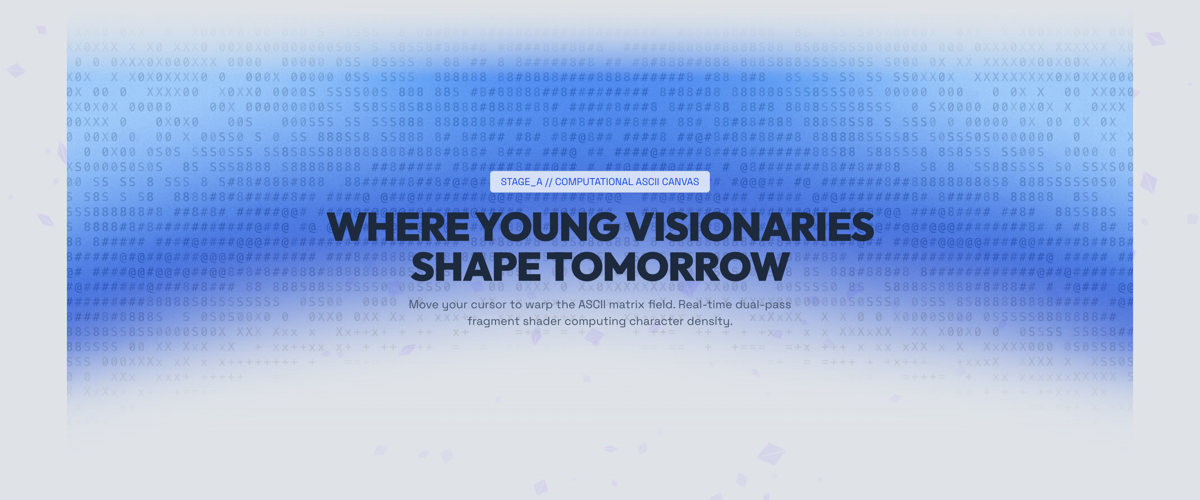
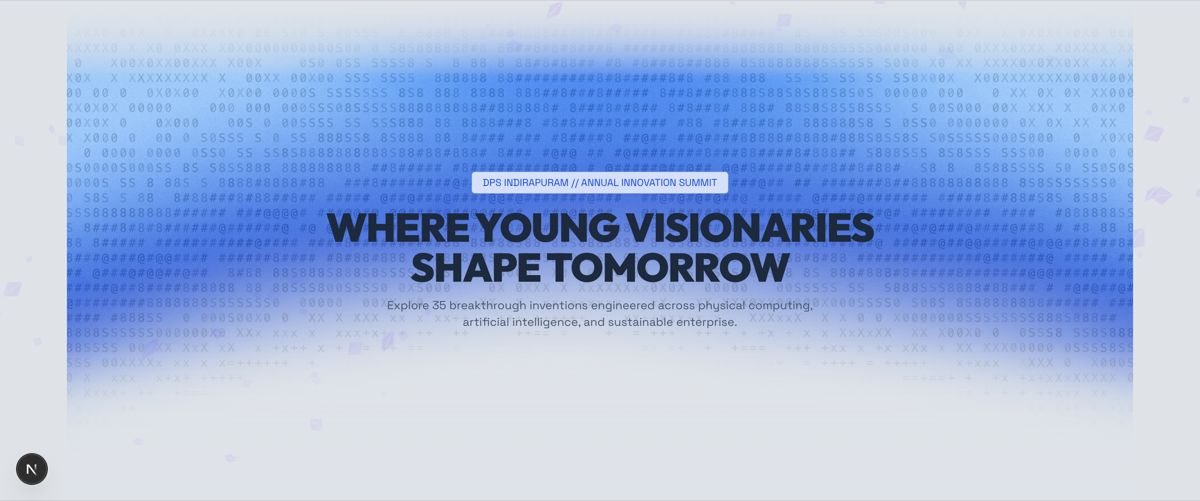
refactor(ui): deslop landing page copy, remove component-demo telemetry, and clean section headers

diff --git a/src/app/page.tsx b/src/app/page.tsx
@@ -246,14 +246,14 @@ export default function LandingPage() {
             isLight ? 'border-slate-200/80' : 'border-[#30363d]'
           }`}>
             <div className={`flex items-center justify-between font-mono text-[11px] sm:text-xs mb-3 ${
-              isLight ? 'text-slate-500' : 'text-[#8b949e]'
+              isLight ? 'text-slate-600' : 'text-[#8b949e]'
             }`}>
-              <span className="flex items-center gap-2 text-[#3fb950]">
-                <span>november 14–15_2026{"}"}</span>
-                <span className="inline-block w-2.5 h-2.5 bg-[#3fb950]" />
+              <span className="flex items-center gap-2 text-[#3fb950] font-bold">
+                <span>NOVEMBER 14–15, 2026</span>
+                <span className="inline-block w-2 h-2 bg-[#3fb950] rounded-xs" />
               </span>
-              <span className="hidden sm:inline">
-                in-person &amp; 3d-hall % |35-booths
+              <span className="hidden sm:inline font-medium">
+                IN-PERSON &amp; 3D VIRTUAL HALL • 35 RESEARCH BOOTHS
               </span>
             </div>
 
@@ -282,19 +282,16 @@ export default function LandingPage() {
               }`}
             />
 
-            {/* Technical Sub-Header with Telemetry */}
+            {/* Technical Sub-Header with Venue Metadata */}
             <div className={`relative z-10 px-4 py-2 border-b flex items-center justify-between text-[10px] sm:text-[11px] font-mono ${
               isLight ? 'border-slate-200/80 text-slate-600' : 'border-[#21262d] text-[#8b949e]'
             }`}>
               <div className="flex items-center gap-1.5 sm:gap-2">
-                <span className="w-1.5 h-1.5 rounded-full bg-blue-500 animate-pulse shrink-0" />
-                <span className="truncate">{'[ ELEMENT 02 ] :: INTERACTIVE PHYSICS WORDMARK'}</span>
+                <span className="w-1.5 h-1.5 rounded-full bg-emerald-500 animate-pulse shrink-0" />
+                <span className="truncate font-bold tracking-tight">DELHI PUBLIC SCHOOL INDIRAPURAM</span>
               </div>
-              <span className="hidden md:inline text-[10px] text-slate-400 font-mono tracking-widest">
-                COORDINATES: 28.6479° N, 77.3764° E // AUDITORIUM MAIN
-              </span>
-              <span className={`shrink-0 ${isLight ? 'text-blue-600 font-semibold' : 'text-[#58a6ff]'}`}>
-                SPRING DYNAMICS
+              <span className="text-[10px] text-slate-400 font-mono tracking-wider">
+                MAIN AUDITORIUM • 28.6479° N, 77.3764° E
               </span>
             </div>
 
@@ -319,14 +316,6 @@ export default function LandingPage() {
                 reach={isMobile ? 120 : 180}
                 bounce={0.4}
               />
-            </div>
-
-            {/* Blueprint Micro-instruction Footer */}
-            <div className={`relative z-10 px-4 py-1.5 border-t flex items-center justify-between text-[10px] font-mono ${
-              isLight ? 'border-slate-200/60 bg-slate-100/50 text-slate-500' : 'border-[#21262d] bg-[#0d1117]/50 text-[#8b949e]'
-            }`}>
-              <span>{'// INTERACTION GUIDE: DRAG CHARACTERS • HOVER TO DISASSEMBLE VECTORS'}</span>
-              <span className="hidden sm:inline">{'PHYSICS ENGINE: VERLET-SPRING'}</span>
             </div>
           </div>
 
@@ -441,16 +430,10 @@ export default function LandingPage() {
         </div>
       </section>
 
-      {/* ─── ELEMENT 5: <TextLoop /> ─── */}
-      <section className={`border-b transition-colors duration-300 ${
+      {/* ─── LIVE EXHIBITION MARQUEE RIBBON ─── */}
+      <section className={`border-b transition-colors duration-300 py-1 overflow-hidden ${
         isLight ? 'border-slate-200/80 bg-white/35 backdrop-blur-sm' : 'border-[#30363d] bg-[#040711]'
       }`}>
-        <div className={`px-4 py-2 border-b flex items-center justify-between text-[11px] font-mono max-w-7xl mx-auto ${
-          isLight ? 'border-slate-200 text-slate-600' : 'border-[#21262d] text-[#8b949e]'
-        }`}>
-          <span>{'[ ELEMENT 05 ] :: SVG CURVED LOOP RIBBON'}</span>
-          <span className="text-[#a855f7] font-semibold">LIVE STREAM MARQUEE</span>
-        </div>
         <div className="py-2 overflow-hidden">
           <TextLoop
             text="DPSI TECH & INNOVATION EXPO 2026 ✦ 35 STUDENT INVENTIONS ✦ PHYSICAL PROTOTYPES ✦ AI & COMPUTER VISION ✦ BUSINESS SUSTAINABILITY ✦ COMBAT ROBOTICS ✦ ANTI-CHEAT COMMUNITY BALLOT"
@@ -519,14 +502,14 @@ export default function LandingPage() {
                 : 'from-transparent via-[#000000]/60 to-[#000000]'
             }`} />
 
-            {/* GitHub Universe Terminal Overlay in Center */}
+            {/* Exhibition Horizon Headline Overlay */}
             <div className="absolute inset-0 z-20 flex flex-col items-center justify-center p-6 text-center pointer-events-none">
               <span className={`px-3 py-1 rounded font-mono text-xs mb-4 backdrop-blur-sm ${
                 isLight
                   ? 'bg-white/80 border border-slate-300/80 text-blue-700 shadow-xs'
                   : 'bg-black/80 border border-slate-700 text-[#38bdf8]'
               }`}>
-                {'STAGE_A // COMPUTATIONAL ASCII CANVAS'}
+                {'DPS INDIRAPURAM // ANNUAL INNOVATION SUMMIT'}
               </span>
               <h2 className={`text-3xl sm:text-5xl font-black font-sans uppercase tracking-tight max-w-2xl ${
                 isLight ? 'text-slate-800 drop-shadow-xs' : 'text-white drop-shadow-md'
@@ -536,8 +519,7 @@ export default function LandingPage() {
               <p className={`mt-3 text-xs sm:text-sm font-mono max-w-lg ${
                 isLight ? 'text-slate-600' : 'text-slate-300'
               }`}>
-                Move your cursor to warp the ASCII matrix field. Real-time dual-pass fragment shader
-                computing character density.
+                Explore 35 breakthrough inventions engineered across physical computing, artificial intelligence, and sustainable enterprise.
               </p>
             </div>
           </div>
@@ -896,13 +878,13 @@ export default function LandingPage() {
         </div>
       </section>
 
-      {/* ─── ELEMENT 3: <BellToggle /> IN VIP PASS & ALERTS ─── */}
+      {/* ─── REAL-TIME NOTIFICATIONS & VIP PASS ─── */}
       <section className={`border-b py-14 transition-colors duration-300 ${
         isLight ? 'border-slate-200/80 bg-[#f1f5f9]/50 backdrop-blur-sm' : 'border-[#30363d] bg-[#000000]'
       }`}>
         <div className="max-w-3xl mx-auto px-4 text-center">
           <span className="text-xs font-mono text-[#3fb950] font-bold block mb-2">
-            {'// ELEMENT 03 // REAL-TIME ALERTS'}
+            {'// REAL-TIME EVENT ALERTS'}
           </span>
           <h2 className={`text-2xl sm:text-4xl font-black uppercase font-sans tracking-tight ${
             isLight ? 'text-slate-800' : 'text-white'

diff --git a/src/app/layout.tsx b/src/app/layout.tsx
@@ -53,7 +53,7 @@ export default function RootLayout({
       <body className="min-h-screen w-full bg-[#dfe3e8] dark:bg-[#000000] text-[#1e293b] dark:text-[#f1f5f9] font-sans selection:bg-amber-500 selection:text-black relative transition-colors duration-300" suppressHydrationWarning>
         <ThemeSync />
 
-        {/* [ ELEMENT 04 ] :: REFRACTIVE GLASS AERO-SHARDS SIMULATION in the background of landing page */}
+        {/* Ambient refractive glass background simulation */}
         <AmbientBackground />
 
         {/* Dynamic BlobCursor liquid chrome pointer element that renders behind text */}
